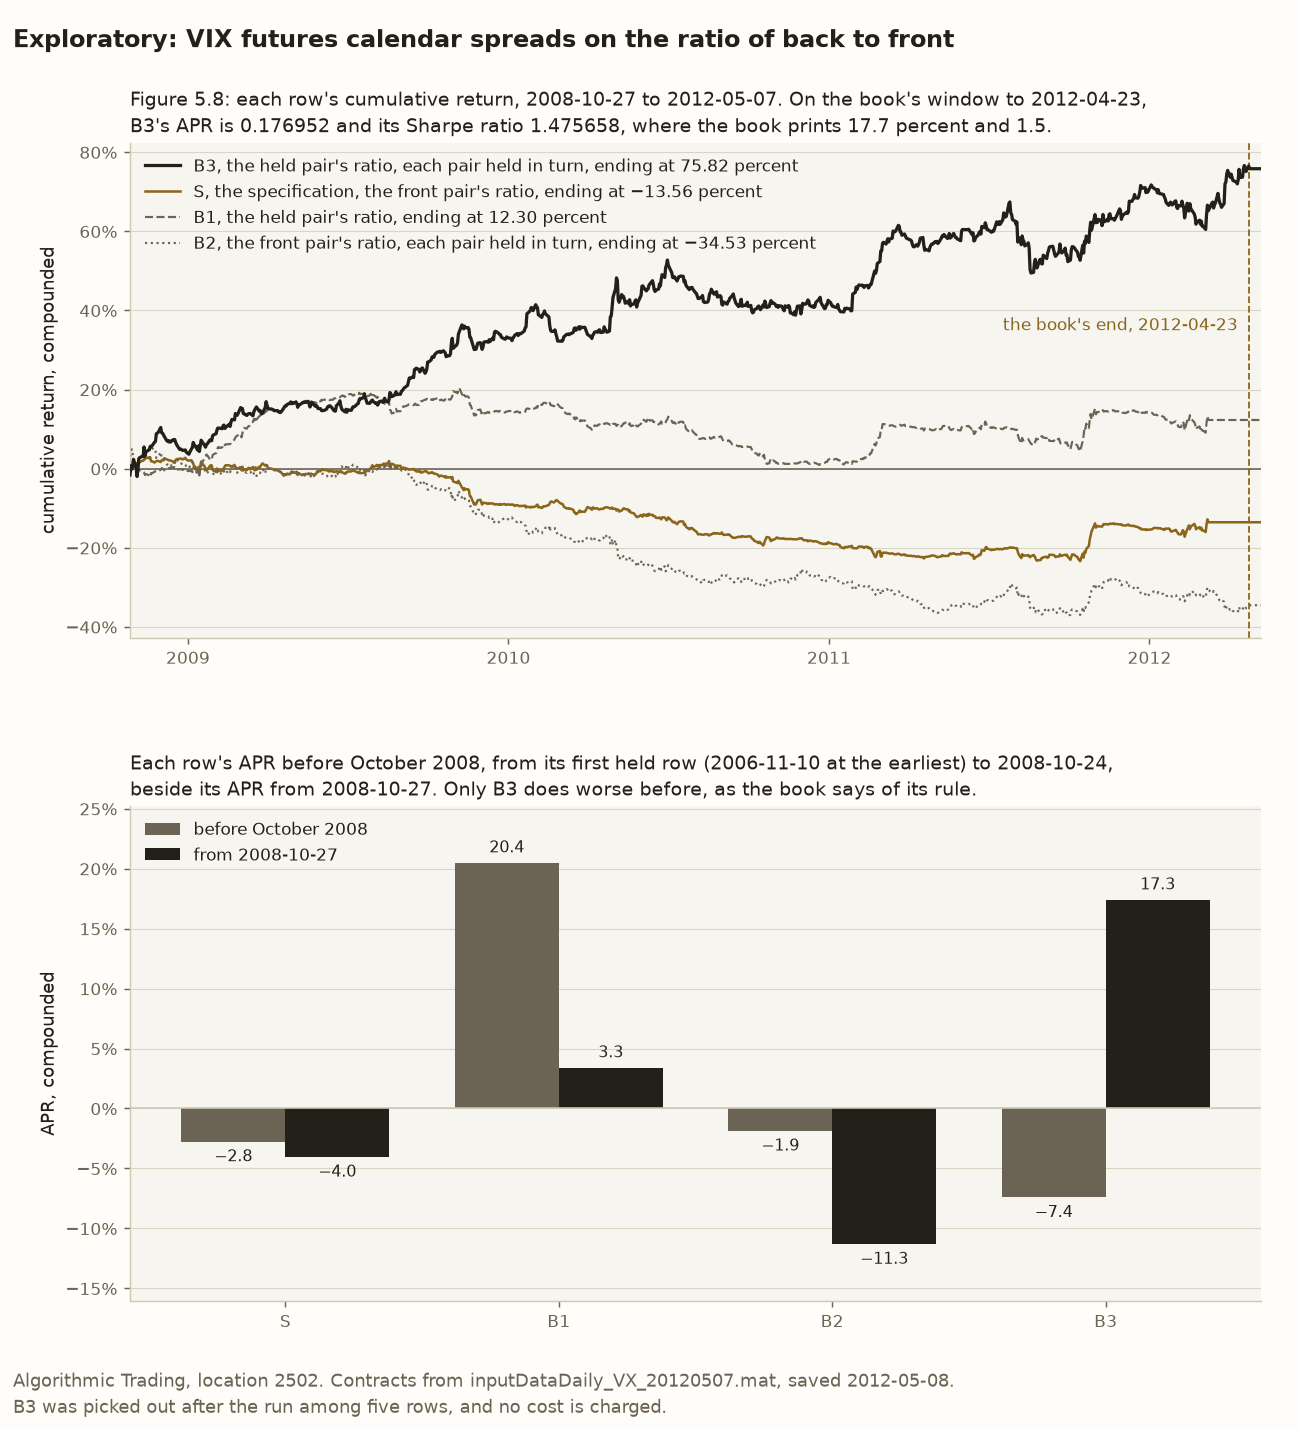
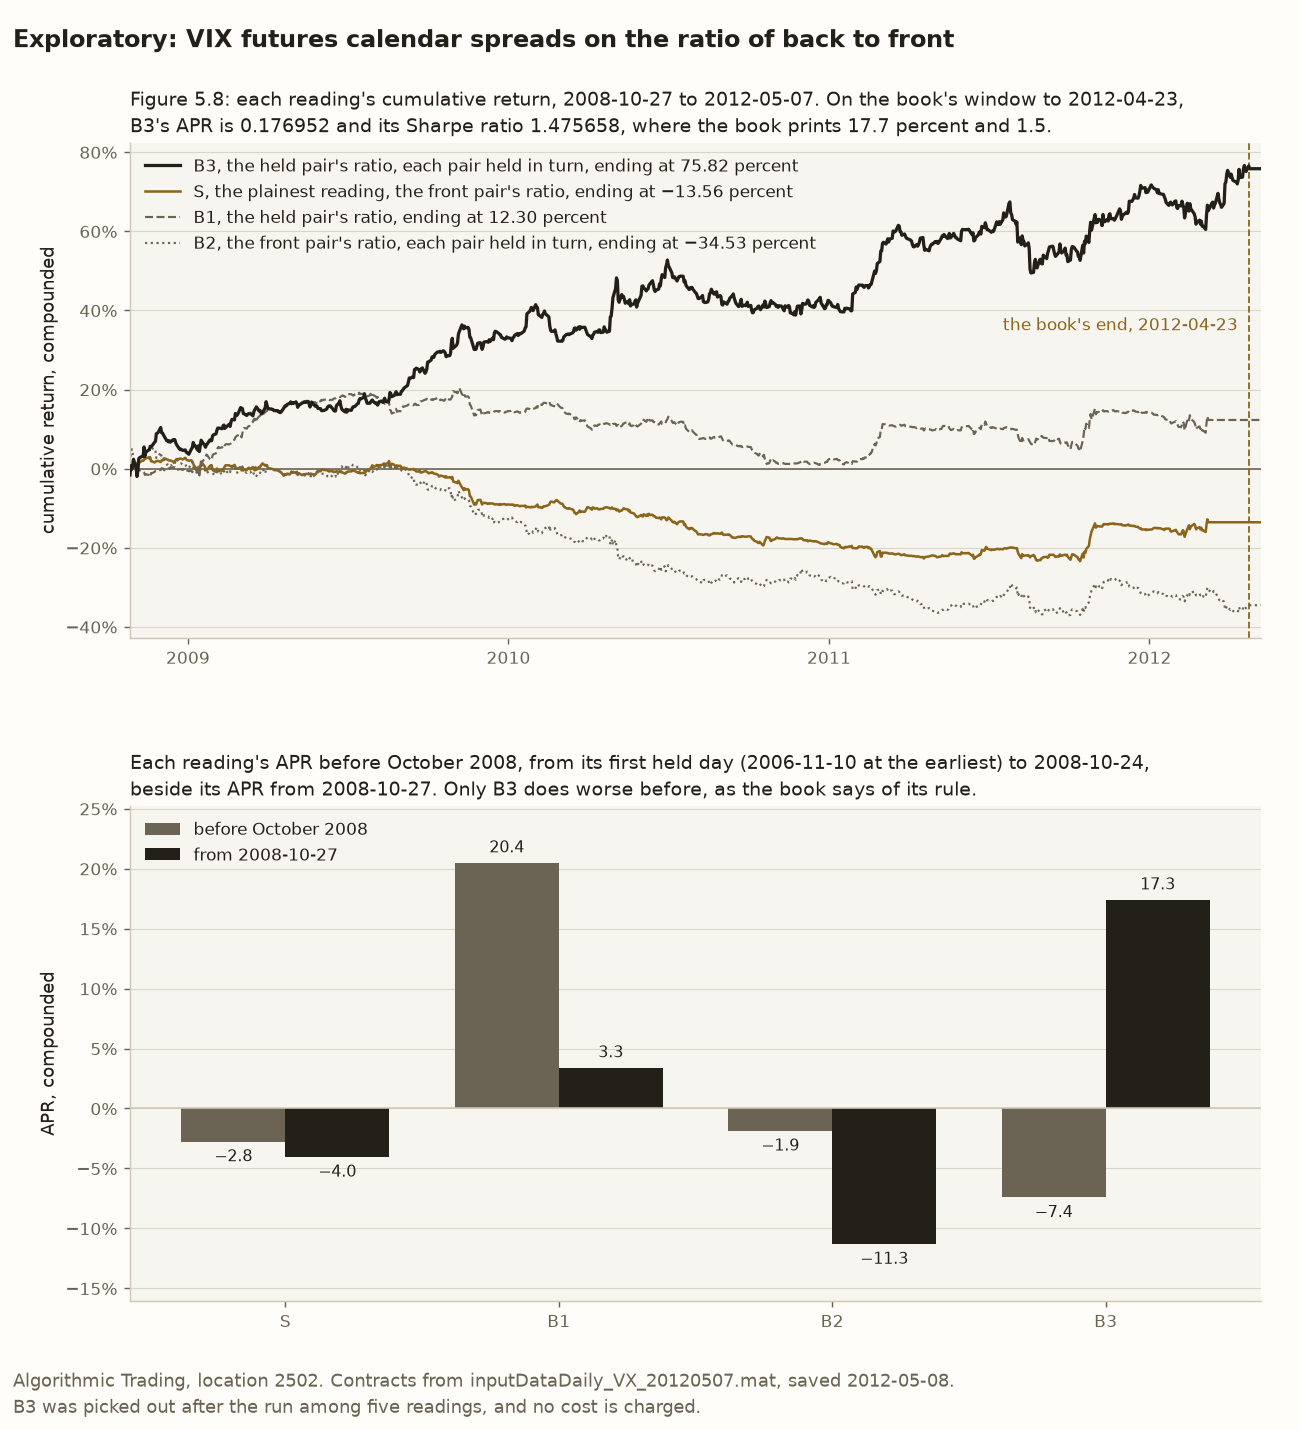
fix: round 2 consistency fixes around the VX calendar spread post
Round 2 of the pre-publish review loop, consistency.

- The chart still called S "the specification" and the readings "rows",
  which the post no longer does since round 1. Its legend, two headings and
  footer now say "the plainest reading", "reading" and "day", and the PNG is
  redrawn. Every label still fits.
- The post's footer now links the sketch module and its tests, as the crude
  oil and USD.CAD posts do.
- TestWhatThePostQuotes said the chart's tests held the alt text's bar
  figures, and none read the post. A test now reads the eight figures against
  the chart's labels.
- The sketch alt texts' axis months, span count, box count and contract range,
  and Lesson 3's "May 2012 contract", are now read from the run.

Part of #655

diff --git a/tests/test_vx_calendar_spread_figures.py b/tests/test_vx_calendar_spread_figures.py
@@ -25,7 +25,7 @@ import pytest
 from matplotlib.dates import date2num
 
 from chan import vx_calendar_spread_figures as module
-from chan.paths import FIGURES_DIR
+from chan.paths import FIGURES_DIR, REPO_ROOT
 from chan.regime_figure import ACCENT, INK, MUTED
 from chan.roll_returns import load_strip
 from chan.series import WindowCrossesScaleBreak
@@ -99,7 +99,7 @@ class TestTheFigure:
         )
         assert [t.get_text() for t in figure.texts if t is not figure._suptitle] == [
             "Algorithmic Trading, location 2502. Contracts from inputDataDaily_VX_20120507.mat, "
-            "saved 2012-05-08.\nB3 was picked out after the run among five rows, and no cost "
+            "saved 2012-05-08.\nB3 was picked out after the run among five readings, and no cost "
             "is charged."
         ]
 
@@ -177,7 +177,7 @@ class TestTheCumulativeReturns:
         legend = [t.get_text() for t in axes["returns"].get_legend().get_texts()]
         assert legend == [
             "B3, the held pair's ratio, each pair held in turn, ending at 75.82 percent",
-            "S, the specification, the front pair's ratio, ending at −13.56 percent",
+            "S, the plainest reading, the front pair's ratio, ending at −13.56 percent",
             "B1, the held pair's ratio, ending at 12.30 percent",
             "B2, the front pair's ratio, each pair held in turn, ending at −34.53 percent",
         ], SPEC
@@ -199,7 +199,7 @@ class TestTheCumulativeReturns:
 
     def test_the_heading_sets_b3_on_the_books_window_beside_the_book(self, axes) -> None:
         assert _title(axes["returns"]) == (
-            "Figure 5.8: each row's cumulative return, 2008-10-27 to 2012-05-07. On the book's "
+            "Figure 5.8: each reading's cumulative return, 2008-10-27 to 2012-05-07. On the book's "
             "window to 2012-04-23,\nB3's APR is 0.176952 and its Sharpe ratio 1.475658, where "
             "the book prints 17.7 percent and 1.5."
         ), SPEC
@@ -271,9 +271,19 @@ class TestTheRowsBeforeOctober2008:
         labels = [t.get_text() for t in axes["before"].texts]
         assert labels == ["−2.8", "20.4", "−1.9", "−7.4", "−4.0", "3.3", "−11.3", "17.3"], SPEC
 
+    def test_the_posts_alt_text_quotes_each_bar_label(self, axes) -> None:
+        """The alt text reads the eight labels as pairs, before and then from 2008-10-27."""
+        labels = [t.get_text() for t in axes["before"].texts]
+        post = (REPO_ROOT / "blog" / "vx-calendar-spread-lessons.md").read_text(encoding="utf-8")
+        quoted = (
+            f"S shows {labels[0]} and {labels[4]} percent, B1 {labels[1]} and {labels[5]}, "
+            f"B2 {labels[2]} and {labels[6]}, and B3 {labels[3]} and {labels[7]}."
+        )
+        assert post.count(quoted) == 1, SPEC
+
     def test_the_heading_names_the_windows_and_the_claim(self, axes) -> None:
         assert _title(axes["before"]) == (
-            "Each row's APR before October 2008, from its first held row (2006-11-10 at the "
+            "Each reading's APR before October 2008, from its first held day (2006-11-10 at the "
             "earliest) to 2008-10-24,\nbeside its APR from 2008-10-27. Only B3 does worse "
             "before, as the book says of its rule."
         ), SPEC

diff --git a/tests/test_vx_calendar_spread_whiteboard.py b/tests/test_vx_calendar_spread_whiteboard.py
@@ -46,7 +46,7 @@ from chan import vx_calendar_spread_whiteboard as sketches
 from chan.calendar_spread_reversion import NUM_DAYS_END, calendar_schedule
 from chan.paths import FIGURES_DIR, REPO_ROOT
 from chan.regime_figure import ACCENT, GOOD, INK, LOST, MUTED
-from chan.roll_returns import load_strip
+from chan.roll_returns import MONTH_LETTERS, load_strip
 from chan.usdcad_tests_whiteboard import (
     HEIGHT,
     HOLD_MS,
@@ -436,9 +436,7 @@ class TestThePost:
                 assert found >= 0, (scene.slug, label)
                 at = found + len(label) + 2
 
-    def test_no_alt_text_calls_its_sketch_schematic_and_each_names_its_pace(
-        self, every
-    ) -> None:
+    def test_no_alt_text_calls_its_sketch_schematic_and_each_names_its_pace(self, every) -> None:
         one_hold, twelve_apart = (_alt(scene) for scene in every)
         for alt in (one_hold, twelve_apart):
             assert "schematic" not in alt
@@ -778,6 +776,13 @@ OTHER_SHIPPED = Shipped(
     spread_month=6,
 )
 ORDINALS = {1: "first", 2: "second", 3: "third", 4: "fourth", 5: "fifth", 6: "sixth"}
+#: The counts the two alt texts spell out, the spans of the first and the boxes of the second.
+COUNTS = {4: "four", 16: "sixteen"}
+
+
+def _month_year(symbol: str) -> str:
+    """``VX-2010F`` as an alt text names it, January 2010."""
+    return f"{pd.Timestamp(int(symbol[-5:-1]), MONTH_LETTERS.index(symbol[-1]) + 1, 1):%B %Y}"
 
 
 class TestTheTwelveApartSketch:
@@ -862,6 +867,9 @@ class TestTheTwelveApartSketch:
         rank = int(near_leg_rank(contracts, calendar_schedule(contracts)).loc[shipped.day])
         assert rank == shipped.row.index(shipped.near) + 1, SHIPPED_SPEC
         for phrase in (
+            f"A row of {COUNTS[len(shipped.row)]} boxes",
+            f"one for each VX contract from {_month_year(shipped.row[0])} to "
+            f"{_month_year(shipped.row[-1])}",
             "eight solid boxes",
             "eight dashed boxes",
             "F to Z",
@@ -892,9 +900,12 @@ class TestTheTwelveApartSketch:
 
 
 class TestTheHoldAltText:
-    def test_it_says_what_the_picture_shows(self, every) -> None:
+    def test_it_says_what_the_picture_shows(self, every, hold) -> None:
         alt = _alt(every[0])
+        first, last = pd.Timestamp(hold.days[0]), pd.Timestamp(hold.days[-1])
         for phrase in (
+            f"from early {first:%B} to late {last:%B %Y}",
+            f"a row of {COUNTS[len(hold.stretches)]} thin black spans",
             "thick black bar",
             "grey bracket",
             "pale green box with a green edge",

diff --git a/src/chan/vx_calendar_spread_figures.py b/src/chan/vx_calendar_spread_figures.py
@@ -58,7 +58,7 @@ CURVES = ("B3", "S", "B1", "B2")
 #: How each curve is drawn: colour, width, style, and what the legend calls it.
 CURVE_STYLE = {
     "B3": (INK, 1.8, "-", "B3, the held pair's ratio, each pair held in turn"),
-    "S": (ACCENT, 1.4, "-", "S, the specification, the front pair's ratio"),
+    "S": (ACCENT, 1.4, "-", "S, the plainest reading, the front pair's ratio"),
     "B1": (MUTED, 1.2, "--", "B1, the held pair's ratio"),
     "B2": (MUTED, 1.2, ":", "B2, the front pair's ratio, each pair held in turn"),
 }
@@ -116,7 +116,7 @@ def _returns_panel(ax, result: VxCalendarSpread) -> None:
     b3 = result.b3_book_window
     _heading(
         ax,
-        f"Figure 5.8: each row's cumulative return, {days[0].date()} to {days[-1].date()}. "
+        f"Figure 5.8: each reading's cumulative return, {days[0].date()} to {days[-1].date()}. "
         f"On the book's window to {BOOK_END.date()},\nB3's APR is {b3.apr:.6f} and its Sharpe "
         f"ratio {b3.sharpe:.6f}, where the book prints {BOOK_APR_PERCENT} percent and "
         f"{BOOK_SHARPE}.",
@@ -152,7 +152,7 @@ def _before_panel(ax, result: VxCalendarSpread) -> None:
     first = min(result.before[key].returns.index[0] for key in ROWS_BEFORE)
     _heading(
         ax,
-        f"Each row's APR before October 2008, from its first held row ({first.date()} at the "
+        f"Each reading's APR before October 2008, from its first held day ({first.date()} at the "
         "earliest) to 2008-10-24,\nbeside its APR from 2008-10-27. Only B3 does worse before, "
         "as the book says of its rule.",
     )
@@ -180,7 +180,7 @@ def make_vx_calendar_spread_figure(
         fig,
         "Exploratory: VIX futures calendar spreads on the ratio of back to front",
         f"Algorithmic Trading, location 2502. Contracts from {SOURCE_FILES[ROOT]}, saved "
-        f"{', '.join(saved)}.\nB3 was picked out after the run among five rows, and no cost "
+        f"{', '.join(saved)}.\nB3 was picked out after the run among five readings, and no cost "
         "is charged.",
     )
     fig.subplots_adjust(left=0.1, right=0.97, top=0.9, bottom=0.09)

diff --git a/tests/test_vx_calendar_spread.py b/tests/test_vx_calendar_spread.py
@@ -535,8 +535,10 @@ class TestWhatThePostQuotes:
        day in "What changes from crude oil", the 459 of 879 days in Lesson
        2's last paragraph, the 1,183 days after Lesson 4's counts, and the
        126 of 847 in the closing list.
-    2. The figures in the chart's alt text, which
-       ``tests/test_vx_calendar_spread_figures.py`` holds against the chart.
+    2. The figures in the chart's alt text.
+       ``tests/test_vx_calendar_spread_figures.py`` reads its eight bar figures
+       against the chart's labels, and its readings of the curves are
+       approximate.
     3. Chan's words and their Kindle locations, the script's name and
        commit, and the references.
     4. The numbers the two sketches print and their alt texts quote, which
@@ -676,6 +678,7 @@ class TestWhatThePostQuotes:
             f"{early.returns.index[-1].date()}, its APR is {_minus(early.apr, 6)} and its "
             f"Sharpe ratio {_minus(early.sharpe, 6)}.",
             f"B3’s last held day is {b3.last_held.date()}, the book’s printed end date",
+            f"{last_near} is the {_month(last_near)} contract.",
             f"so it reads {strip.contracts.index[-1].date()} as {last_near}’s expiry and lets go "
             f"of the pair {NUM_DAYS_END} days earlier, on {b3.last_held.date()}.",
         ]

diff --git a/blog/vx-calendar-spread-lessons.md b/blog/vx-calendar-spread-lessons.md
@@ -169,4 +169,4 @@ Each lesson leaves one habit.
 1. Chan, E. P. (2013). *Algorithmic Trading: Winning Strategies and Their Rationale*. Wiley. Example 5.4, Figure 5.8, and Kindle location 2502.
 2. `calendarSpdsMeanReversion.m`, at commit `e4bc46f` of [ericnberwick/EpchanPreview](https://github.com/ericnberwick/EpchanPreview), a public copy of Chan’s code.
 
-*Not investment advice. Code: [the trade](https://github.com/l3a0/quantitative-trading/blob/main/src/chan/vx_calendar_spread.py), [the script it runs](https://github.com/l3a0/quantitative-trading/blob/main/src/chan/calendar_spread_reversion.py) and [the chart](https://github.com/l3a0/quantitative-trading/blob/main/src/chan/vx_calendar_spread_figures.py), with the checks behind [the trade’s numbers](https://github.com/l3a0/quantitative-trading/blob/main/tests/test_vx_calendar_spread.py) and [what the chart draws](https://github.com/l3a0/quantitative-trading/blob/main/tests/test_vx_calendar_spread_figures.py), [the book notes](https://github.com/l3a0/quantitative-trading/blob/main/research/book-notes/algorithmic-trading.md) that record every quoted sentence with its location, and the [replication log](https://github.com/l3a0/quantitative-trading/blob/main/docs/replication-log.md#entry-35-vix-futures-calendar-spreads-on-the-ratio-of-back-to-front-chans-algorithmic-trading) that sets each of Chan’s figures beside the one reproduced here.*
+*Not investment advice. Code: [the trade](https://github.com/l3a0/quantitative-trading/blob/main/src/chan/vx_calendar_spread.py), [the script it runs](https://github.com/l3a0/quantitative-trading/blob/main/src/chan/calendar_spread_reversion.py) and [the chart](https://github.com/l3a0/quantitative-trading/blob/main/src/chan/vx_calendar_spread_figures.py) and [the whiteboard sketches](https://github.com/l3a0/quantitative-trading/blob/main/src/chan/vx_calendar_spread_whiteboard.py), with the checks behind [the trade’s numbers](https://github.com/l3a0/quantitative-trading/blob/main/tests/test_vx_calendar_spread.py), [what the chart draws](https://github.com/l3a0/quantitative-trading/blob/main/tests/test_vx_calendar_spread_figures.py) and [what the sketches draw](https://github.com/l3a0/quantitative-trading/blob/main/tests/test_vx_calendar_spread_whiteboard.py), [the book notes](https://github.com/l3a0/quantitative-trading/blob/main/research/book-notes/algorithmic-trading.md) that record every quoted sentence with its location, and the [replication log](https://github.com/l3a0/quantitative-trading/blob/main/docs/replication-log.md#entry-35-vix-futures-calendar-spreads-on-the-ratio-of-back-to-front-chans-algorithmic-trading) that sets each of Chan’s figures beside the one reproduced here.*
